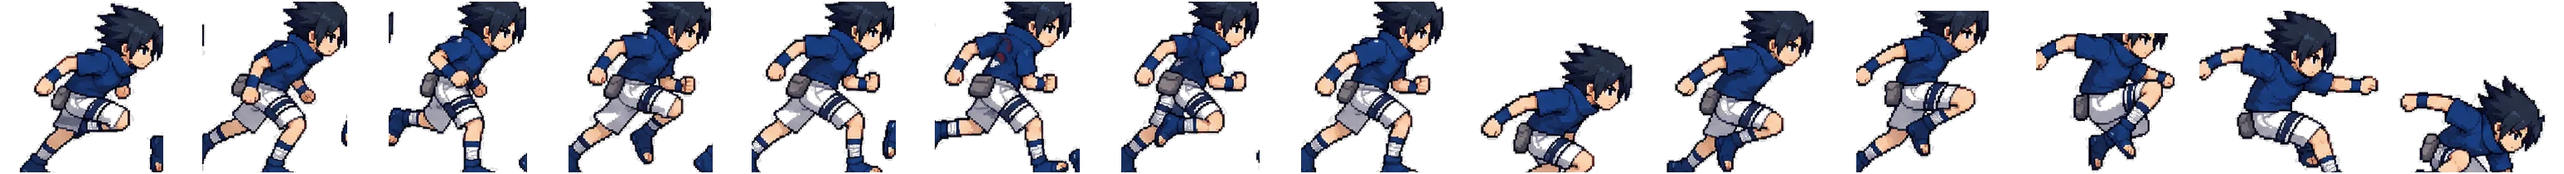
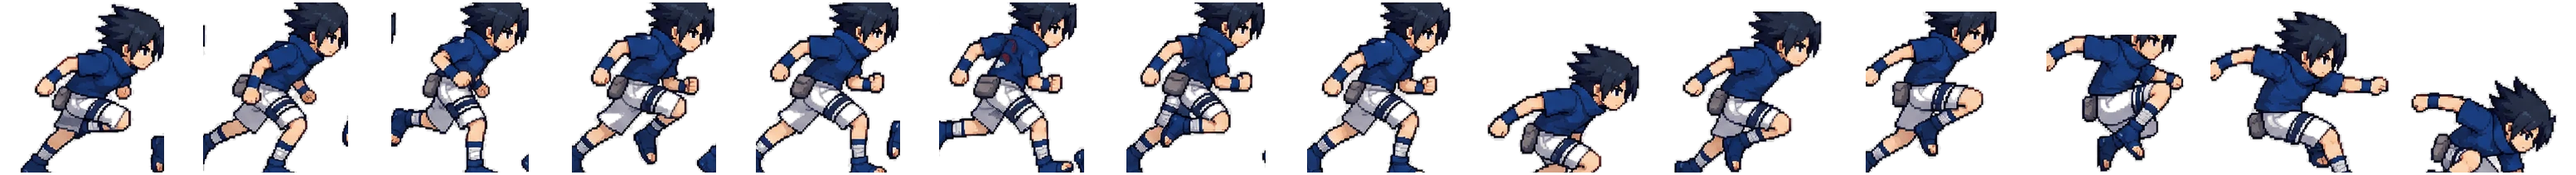
fix(live): bordes limpios y doble salto en Ninja Race
- Los seis atlas se recortan otra vez con erosión de 1 px y difuminado del
  alfa: se va el halo claro que quedaba alrededor del ninja.
- El salto ya no se congela en el último frame: los seis frames de salto se
  reparten sobre 0,75 s de vuelo.
- Hasta dos saltos: el segundo impulsa a media altura (más débil) y se
  recarga al aterrizar. Aturdido por un golpe no se salta.
- El título de la escena pasa a ser el de verdad («versus de la clase»), que
  era lo que seguía viéndose en la lista del LIVE.

diff --git a/lms/content/courses/hard-to-explain-diseno/live/de-02/10-ninja-break/escena.html b/lms/content/courses/hard-to-explain-diseno/live/de-02/10-ninja-break/escena.html
@@ -135,6 +135,7 @@
   let estado = 'lobby', yo = null, lista = [], salidaEn = 0, seed = 1, largo = 840;
   const ninja = { dist: 0, y: 0, vy: 0, suelo: true, estado: 'RUN', frame: 0, golpe: 0, invul: 0, golpes: 0 };
   let obstaculos = [], polvo = [], destello = 0, t = 0, corriendo = false, llegada = 0;
+  let saltos = 0, saltoT = 0;
 
   async function pedir(ruta, cuerpo) {
     const r = await fetch(api(ruta), {
@@ -147,6 +148,7 @@
 
   function reiniciar() {
     Object.assign(ninja, { dist: 0, y: 0, vy: 0, suelo: true, estado: 'RUN', frame: 0, golpe: 0, invul: 0, golpes: 0 });
+    saltos = 0; saltoT = 0;
     obstaculos = []; polvo = []; destello = 0; t = 0; llegada = 0;
   }
   reiniciar();
@@ -221,8 +223,15 @@
   // ---------- juego
   function saltar() {
     despertarAudio();
-    if (estado !== 'corre' || !corriendo || !ninja.suelo) return;
-    ninja.vy = -640; ninja.suelo = false; ninja.estado = 'SALTO'; son('salto', .5);
+    if (estado !== 'corre' || !corriendo) return;
+    if (ninja.golpe > 0) return;                       // aturdido no salta
+    if (ninja.suelo) { saltos = 1; }                    // primer salto
+    else if (saltos < 2) { saltos = 2; }                // segundo, en el aire
+    else return;
+    ninja.vy = saltos === 1 ? -640 : -520;
+    ninja.suelo = false; ninja.estado = 'SALTO'; saltoT = 0;
+    son('salto', saltos === 1 ? .5 : .38);
+    for (let i = 0; i < 5; i++) polvo.push({ x: 190 + Math.random() * 30, y: SUELO - 6, vx: -60 - Math.random() * 90, vy: -40 - Math.random() * 60, vida: .45 });
   }
   addEventListener('keydown', (e) => {
     if ([' ', 'ArrowUp', 'w', 'W'].includes(e.key)) { e.preventDefault(); saltar(); }
@@ -239,8 +248,8 @@
     ninja.dist += ((Math.min(430, 250 + t * 3.2) * factor) / 10) * dt;
 
     if (!ninja.suelo) {
-      ninja.vy += 1750 * dt; ninja.y += ninja.vy * dt;
-      if (ninja.y >= 0) { ninja.y = 0; ninja.vy = 0; ninja.suelo = true; if (ninja.estado === 'SALTO') ninja.estado = 'RUN'; son('aterrizaje', .3); }
+      ninja.vy += 1750 * dt; ninja.y += ninja.vy * dt; saltoT += dt;
+      if (ninja.y >= 0) { ninja.y = 0; ninja.vy = 0; ninja.suelo = true; saltos = 0; if (ninja.estado === 'SALTO') ninja.estado = 'RUN'; son('aterrizaje', .3); }
     }
     ninja.frame += dt * 12;
 
@@ -299,14 +308,13 @@
     }
   }
 
-  function pintaNinja(id, dist, y, frame, est, alfa, escala) {
+  function pintaNinja(id, dist, y, idx, alfa, escala) {
     const im = img[id] || img.joven;
     if (!im || !im.complete || !im.naturalWidth) return;
     const TILE = Math.round(im.width / 14), ALTO2 = im.height;
-    const idx = est === 'SALTO' ? 8 + Math.min(5, Math.floor(frame)) : Math.floor(frame) % 8;
     const w = TILE * escala, h = ALTO2 * escala;
     ctx.globalAlpha = alfa;
-    ctx.drawImage(im, idx * TILE, 0, TILE, ALTO2, 150 + (dist - ninja.dist) * 6, SUELO - h + y, w, h);
+    ctx.drawImage(im, (idx % 14) * TILE, 0, TILE, ALTO2, 150 + (dist - ninja.dist) * 6, SUELO - h + y, w, h);
     ctx.globalAlpha = 1;
   }
 
@@ -320,13 +328,15 @@
       if (im && im.complete) ctx.drawImage(im, x, SUELO - alto + 10, (im.width / im.height) * alto, alto);
     }
     lista.filter(c => c.id !== yo).slice(0, 4).forEach((c, i) => {
-      pintaNinja(c.avatar, c.dist, -8 - i * 14, t * 12, 'RUN', .5, .36);
+      pintaNinja(c.avatar, c.dist, -8 - i * 14, Math.floor(t * 12) % 8, .5, .36);
     });
     // halo detrás del corredor: el traje es negro y el fondo también
     const luz = ctx.createRadialGradient(210, SUELO - 60, 10, 210, SUELO - 60, 150);
     luz.addColorStop(0, 'rgba(255,236,170,.22)'); luz.addColorStop(1, 'rgba(255,236,170,0)');
     ctx.fillStyle = luz; ctx.fillRect(40, SUELO - 220, 340, 260);
-    pintaNinja(avatar, ninja.dist, ninja.y, ninja.frame, ninja.estado, 1, .52);
+    const idxSalto = Math.min(5, Math.floor(saltoT / 0.125));   // 0.75 s para los 6 frames
+    const idx = ninja.suelo ? Math.floor(ninja.frame) % 8 : 8 + idxSalto;
+    pintaNinja(avatar, ninja.dist, ninja.y, idx, 1, .52);
     for (const p of polvo) {
       ctx.globalAlpha = Math.max(0, Math.min(1, p.vida * 1.6));
       ctx.fillStyle = '#cdbba8';
